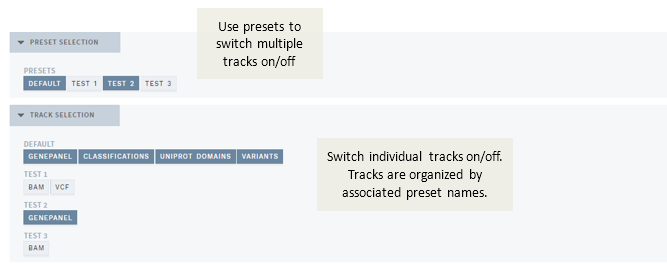
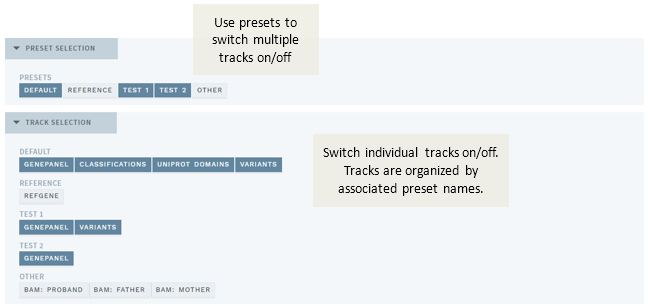
[docs] Updated screenshots VISUAL, clarification (!593)

diff --git a/docs/releasenotes/README.md b/docs/releasenotes/README.md
@@ -30,8 +30,10 @@ Selecting tracks in VISUAL has been further improved by splitting off presets in
     <p><strong>Figure: </strong>Improved track selection presets, with tracks organized by preset name.</p>
 </div> 
 
+Note that tracks that have no configuration (e.g. at present, analysis raw data) are placed in the preset `OTHER` .
+
 <!-- MR 580 -->
-In addition, IGV.js was upgraded to the [most recent version](https://github.com/igvteam/igv.js/releases/tag/v2.10.0), which adds exon numbering (in feature popup) to transcript reference tracks and improved performance. It is now also possible to open analyses with no unfiltered variants, e.g. for reviewing raw data before reporting negative test results.
+In addition, IGV.js was upgraded to the [most recent version](https://github.com/igvteam/igv.js/releases/tag/v2.10.0), which adds exon numbering (in feature popup) to transcript reference tracks, and improved performance. It is now also possible to open analyses with no unfiltered variants, e.g. for reviewing raw data before reporting negative test results.
 
 See [Visual](/manual/visual.md) for further details.
 
